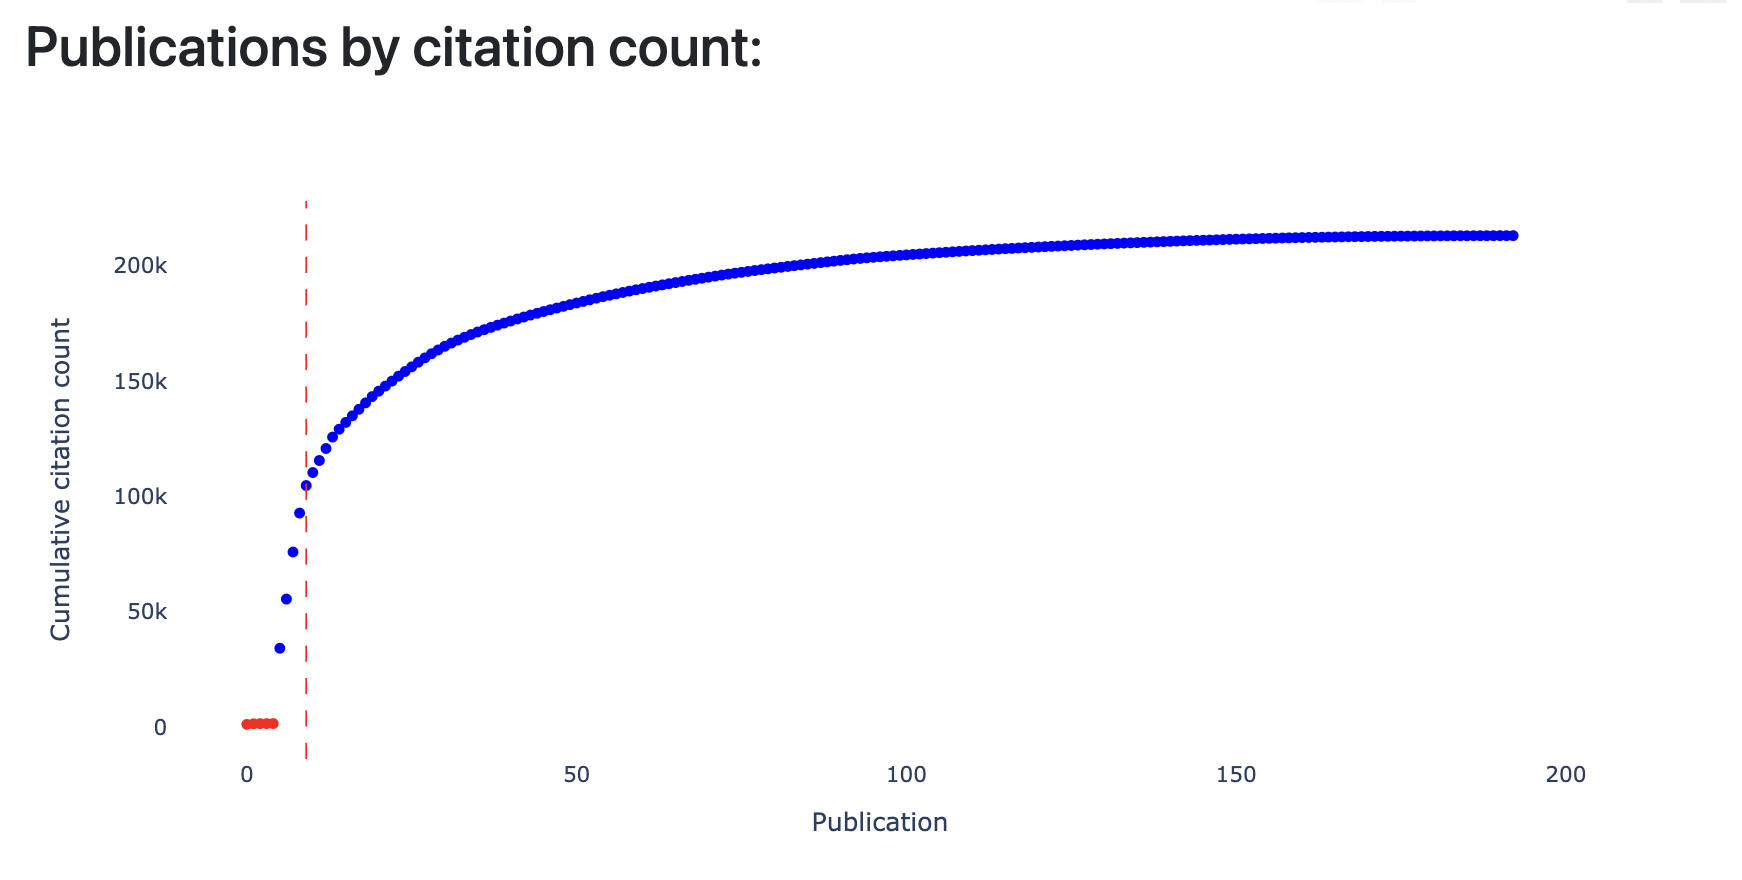
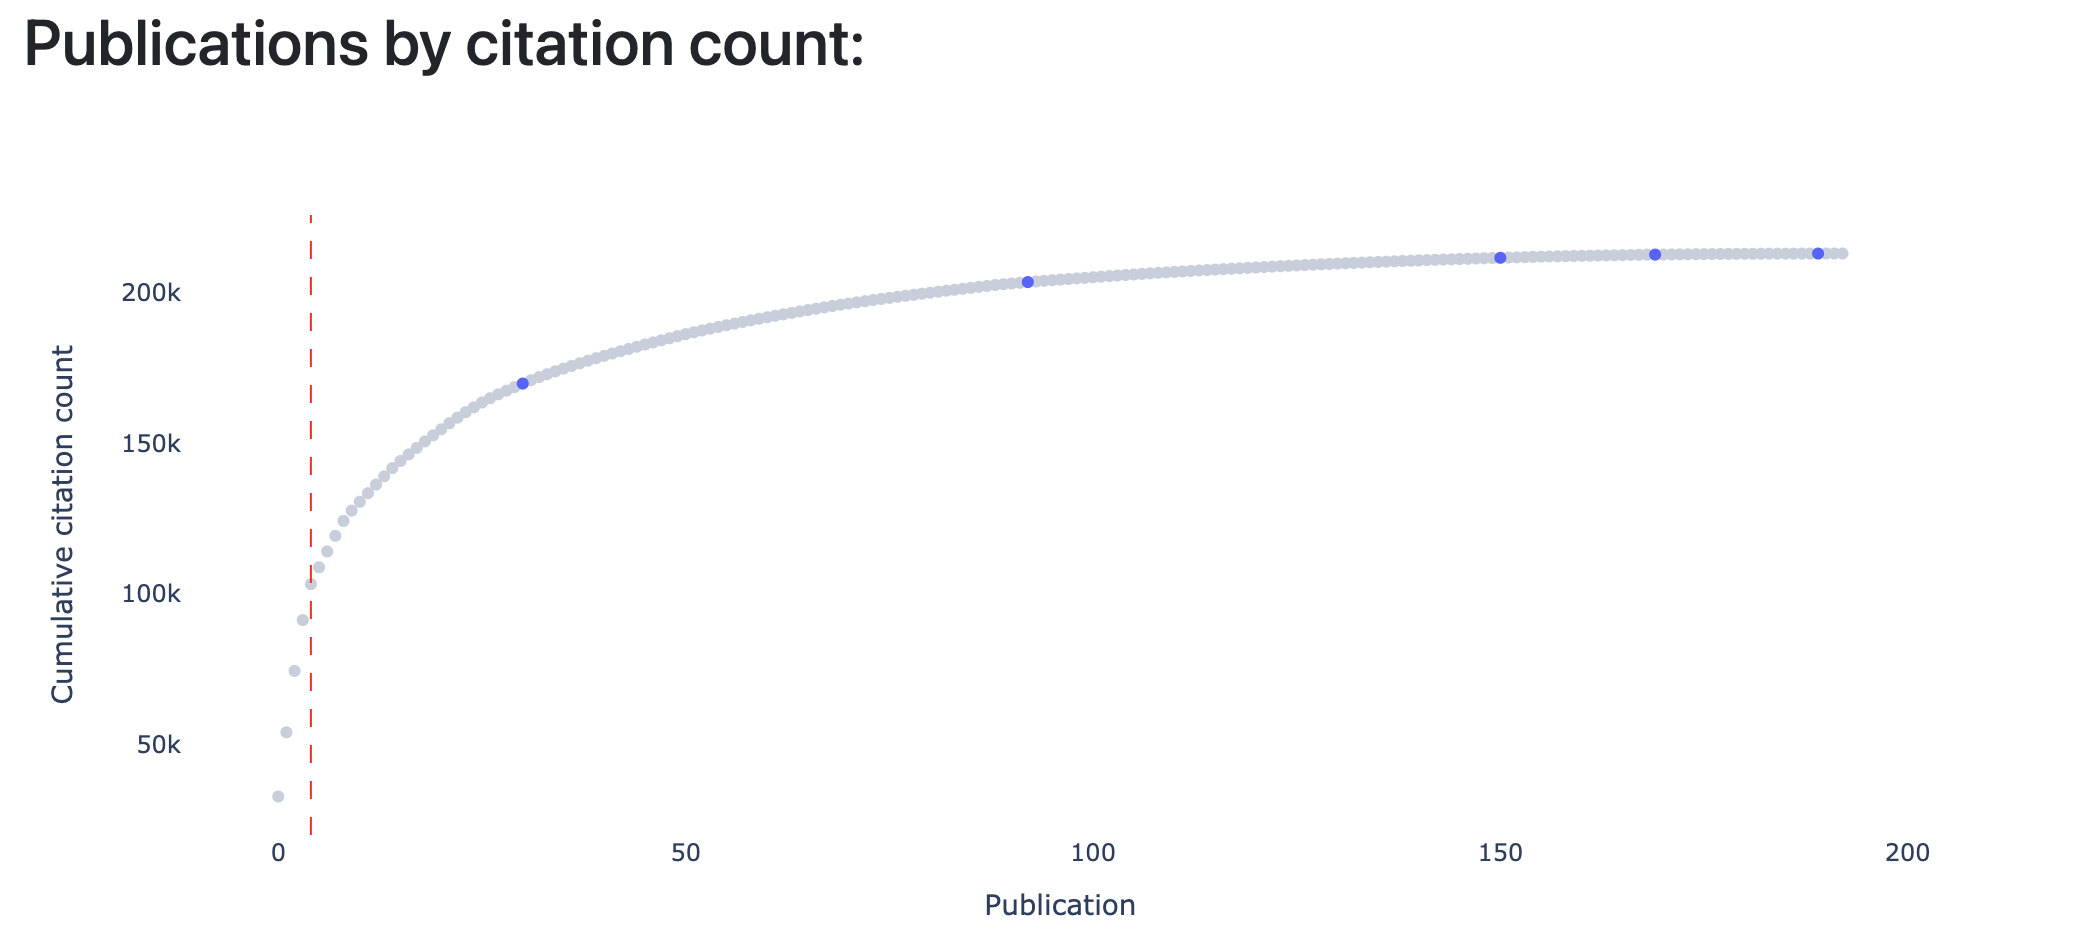
styling and new screenshots

diff --git a/src/app.py b/src/app.py
@@ -114,7 +114,7 @@ def get_publications_by_degree(nodes, links):
 
 def get_publications_by_citations(nodes, links):
 
-    nodes = nodes.sort_values(["group", "citationCount"], ascending=False).reset_index()
+    nodes = nodes.sort_values(["citationCount"], ascending=False).reset_index()
 
     nodes["citationCount_cumulative"] = np.cumsum(nodes["citationCount"]) 
     nodes["citationCount_cumulative_prop"] = nodes["citationCount_cumulative"] / np.sum(nodes["citationCount"])
@@ -181,7 +181,7 @@ def main():
                     {
                         'selector': 'node',
                         'style': {
-                            'background-color': 'mapData(group, 0, 1, blue, red)'
+                            'background-color': 'mapData(group, 0, 1, rgb(199, 206, 219), rgb(84, 101, 255))'
                         }
                     }
                 ]
@@ -207,7 +207,7 @@ def main():
                             x="index", 
                             y="citationCount_cumulative", 
                             color="group",
-                            color_discrete_map={0: "blue", 1: "red"},
+                            color_discrete_map={0: "rgb(199, 206, 219)", 1: "rgb(84, 101, 255)"},
                             hover_data={
                                 "citationCount_cumulative": False,
                                 "group": False,
